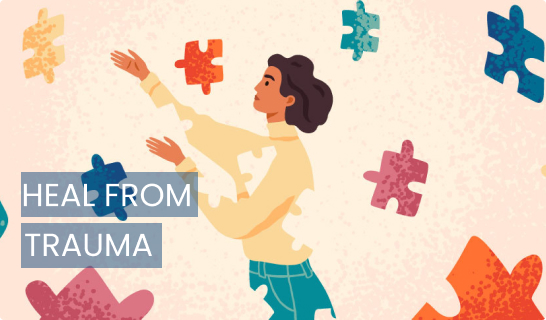
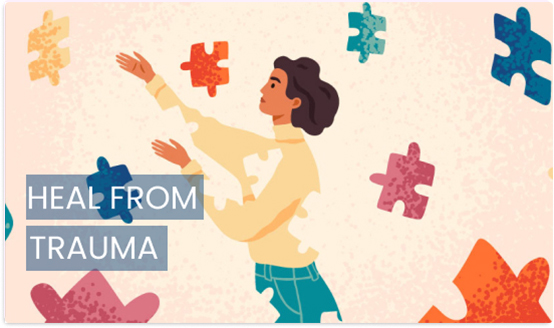
on click the page will go to the top

diff --git a/src/components/blogs/Blogdata.jsx b/src/components/blogs/Blogdata.jsx
@@ -33,11 +33,11 @@ const BlogData = [
     id:"3",
     src: third,
     alt: 'Image 3',
-    header: 'The Many Benefits of Therapy',
-    header1: 'Therapy can be an invaluable resource for helping you make positive changes in your life.',
-    paragraph: 'Greater overall well-being: Therapy can lead to a variety of positive changes in your life, including improved mental health, stronger relationships, and a greater sense of purpose and fulfillment. All of these factors can contribute to a greater overall sense of well-being and happiness.',
-    paragraph2: 'Improved mental health: Therapy can help reduce symptoms of depression, anxiety, and other mental health conditions. It can also help you develop coping skills and strategies for managing difficult emotions and situations.',
-    paragraph3: 'Enhanced self-awareness: Therapy can help you gain a better understanding of yourself, including your strengths, weaknesses, and patterns of behavior',
+    header: 'Healing from Trauma',
+    header1: 'The Role of Forgiveness',
+    paragraph: 'Acknowledge and validate your feelings: It is normal to feel a wide range of emotions after experiencing trauma, including fear, anger, sadness, and confusion. It is important to allow yourself to feel and express these emotions, rather than suppressing them.Seek support: Reaching out to friends, family, or a mental health professional can provide much-needed emotional support and a sense of community during the healing process. It can also be helpful to join a support group or participate in therapy to connect with others who have gone through similar experiences,Practice self-care, Taking care of yourself physically and emotionally is crucial for healing from trauma, This can include activities such as getting enough sleep, eating a healthy diet, engaging in physical activity, and finding healthy ways to cope with stress',
+    paragraph2: 'Forgiveness is a personal choice and the process of forgiving oneself or others for past hurt or wrongdoings can be a critical step in the healing journey. It is important to note that forgiveness does not mean forgetting or excusing the harm that was caused, but rather it is a way to let go of anger and resentment and move forward. Forgiveness can also bring a sense of peace and closure, and can ultimately help to free you from the negative emotions that may be holding you back from fully healing.',
+    paragraph3: 'it is important to remember that healing from trauma is a journey and it is okay to take things one step at a time. There may be setbacks and difficult days, but with self-care, support, and time, it is possible to move forward and find hope and healing. It is also important to be gentle with yourself and to allow yourself to feel a range of emotions as you work through the healing process. Remember, healing is a process, not a destination, and it is okay to seek help and support whenever you need it.',
 },
 
 

diff --git a/src/components/blogs/Recommends.jsx b/src/components/blogs/Recommends.jsx
@@ -13,22 +13,25 @@ function Recommends ({id}){
     
     const navigate = useNavigate();
     const handleBlog1 =(e)=>{
+        window.scrollTo(0, 0);
         e.preventDefault();
      return   navigate(`/blog/${blogs[0].id}`)
 
     }
     const handleBlog2 =(e)=>{
+        window.scrollTo(0, 0);
         e.preventDefault();
         return   navigate(`/blog/${blogs[1].id}`)
+  
     }
 
 
     return(
     <div className="ml-12 w-[75rem] h-[35rem] pt-[10rem] "   >
             <p className=" text-3xl uppercase ">Recommended for you</p>
-            <div className="flex space-x-1">
-        <button  type="submit" onClick={handleBlog1} className="pt-10 rounded  w-[70rem] h-[35rem]"  > <img src={blogs[0].src} alt="second"  />  </button>
-        <button type="submit" onClick={handleBlog2} className="pt-10 rounded w-[70rem] h-[35rem]"  > <img src={blogs[1].src} alt="third"/>  </button>
+            <div className="flex space-x-">
+        <button  type="submit" onClick={handleBlog1} className="pt- rounded  w-[60rem] h-[25rem]"  > <img src={blogs[0].src} alt="second"  />  </button>
+        <button type="submit" onClick={handleBlog2} className=" rounded w-[60rem] h-[25rem]"  > <img src={blogs[1].src} alt="third"/>  </button>
         </div>
         </div>
     )

diff --git a/src/components/blogs/Firebase.js b/src/components/blogs/Firebase.js
@@ -1,25 +1,3 @@
-// import firebase from 'firebase/compat/app';
-// import "firebase/firestore"
-
-
-// const firebaseConfig = {
-//   apiKey: "AIzaSyB-lIwSHr8JegZMANEQv05TnJklZfSNBHc",
-//   authDomain: "code-wars-capstone.firebaseapp.com",
-//   projectId: "code-wars-capstone",
-//   storageBucket: "code-wars-capstone.appspot.com",
-//   messagingSenderId: "435500261308",
-//   appId: "1:435500261308:web:99669583edce4ecd89d5b9"
-// };
-
-
-// const firebaseApp = firebase.initializeApp(firebaseConfig);
-// const db = firebaseApp.firestore();
-
-
-// export default db;
-
-
-
 
 
 import { initializeApp } from "firebase/app";

diff --git a/src/components/blogs/Blogarticle.jsx b/src/components/blogs/Blogarticle.jsx
@@ -28,7 +28,7 @@ let imageurl ;
   
     
     <div id={id } >
-<img  className=" flex justify-center rounded-xl p-10 w-[70rem] h-[35rem]"  src={imageurl} alt="article"/>
+<img  className=" flex justify-center rounded-xl p-10 w-[60rem] h-[35rem]"  src={imageurl} alt="article"/>
 <div className=" inline-flex flex-col space-y-9 justify-start p-3 ml-10 w-[60rem]" >
 <h1 className=" text-5xl uppercase " >{filteredProducts[0].header}</h1>
 <p className="text-xl font-light leading-loose uppercase" >{filteredProducts[0].paragraph}</p>

diff --git a/src/components/blogs/Subscribe.jsx b/src/components/blogs/Subscribe.jsx
@@ -26,17 +26,13 @@ const SubscribeForm = () => {
     }
 
     // Email is valid, add it to Firestore
-
   await addDoc(collection(db, "emails"), {
       useremail: email,    
     });
-    // await db.firestore().collection('sub').add({ useremail: email });
- console.log(`${email} added to Firebase Firestore`);
     setEmail('');
     setError('');
 
-     // Redirect to thank you page
-    //  navigate.push('/thank-you');
+
     navigate("/thank-you");
   } 
 
